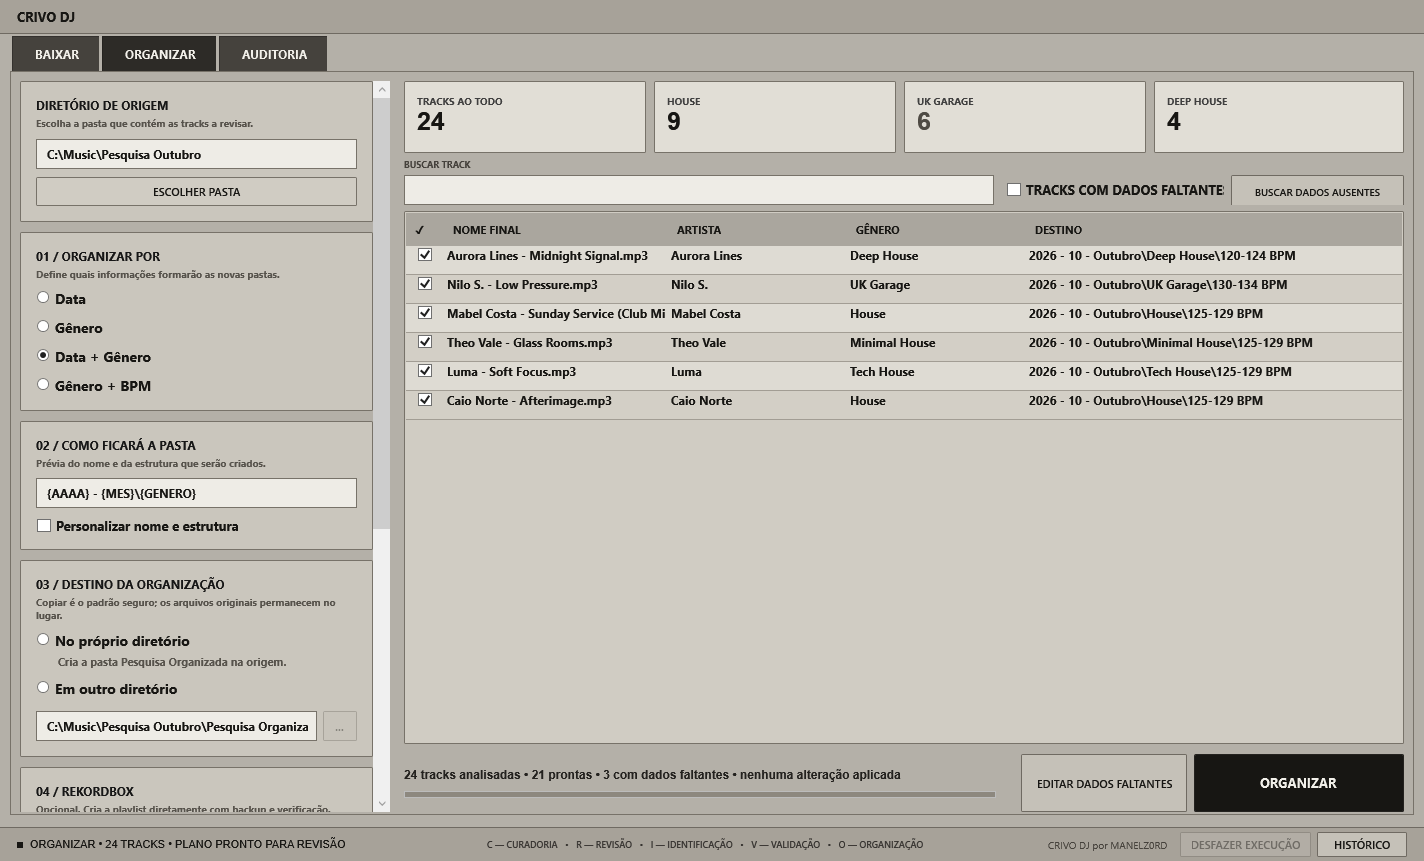
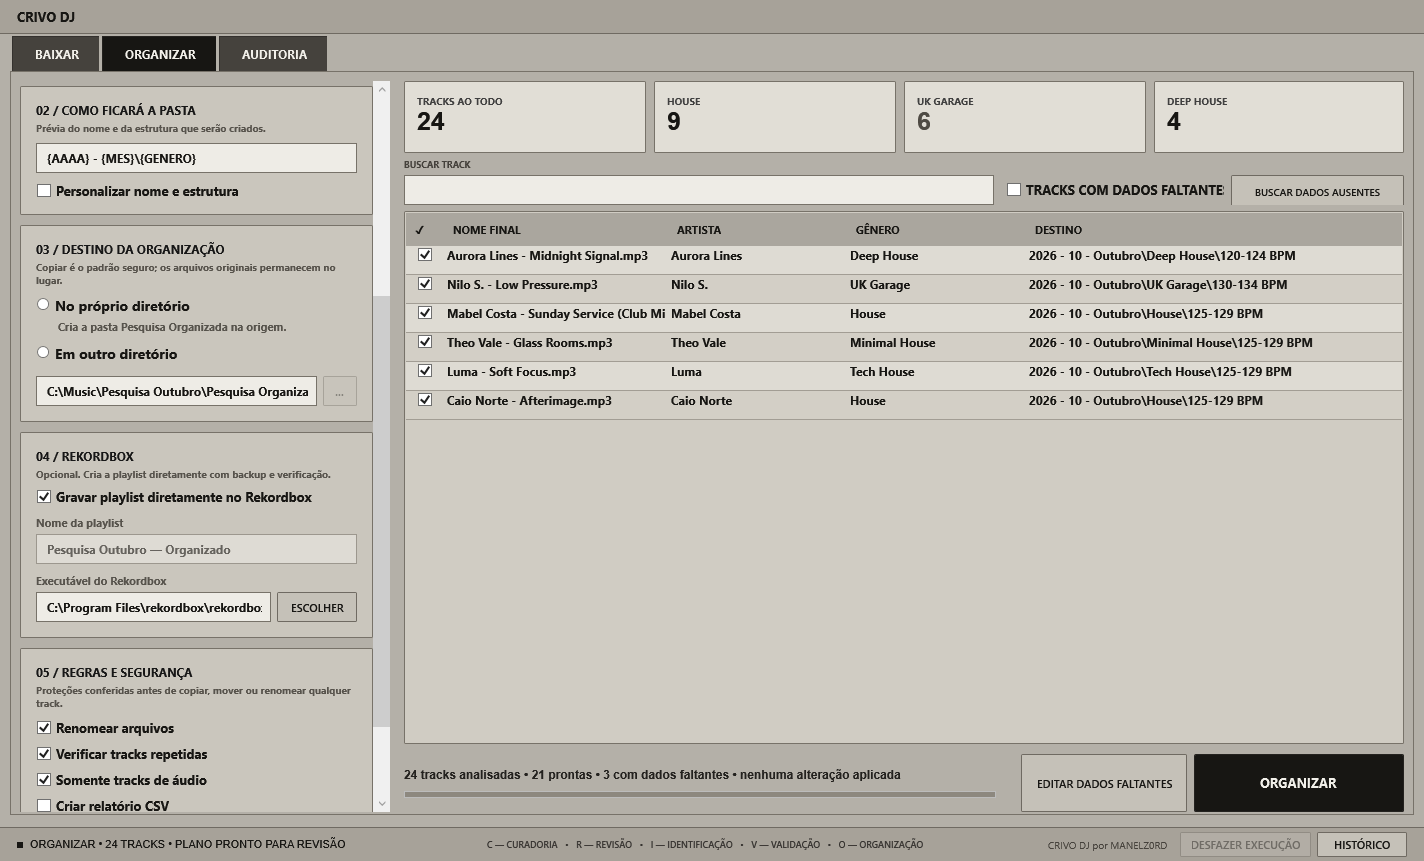
docs: destacar envio ao Rekordbox no print

Changed region(s): [[0.0, 0.5134, 0.2781, 0.9663], [0.0, 0.0906, 0.2781, 0.4832]]

diff --git a/UI/MainWindow.xaml b/UI/MainWindow.xaml
@@ -346,7 +346,7 @@
               <ColumnDefinition Width="14" />
               <ColumnDefinition />
             </Grid.ColumnDefinitions>
-            <ScrollViewer VerticalScrollBarVisibility="Auto">
+            <ScrollViewer x:Name="OrganizerOptionsScroll" VerticalScrollBarVisibility="Auto">
               <StackPanel>
                 <Border Style="{StaticResource Panel}" Margin="0,0,0,10">
                   <StackPanel>
